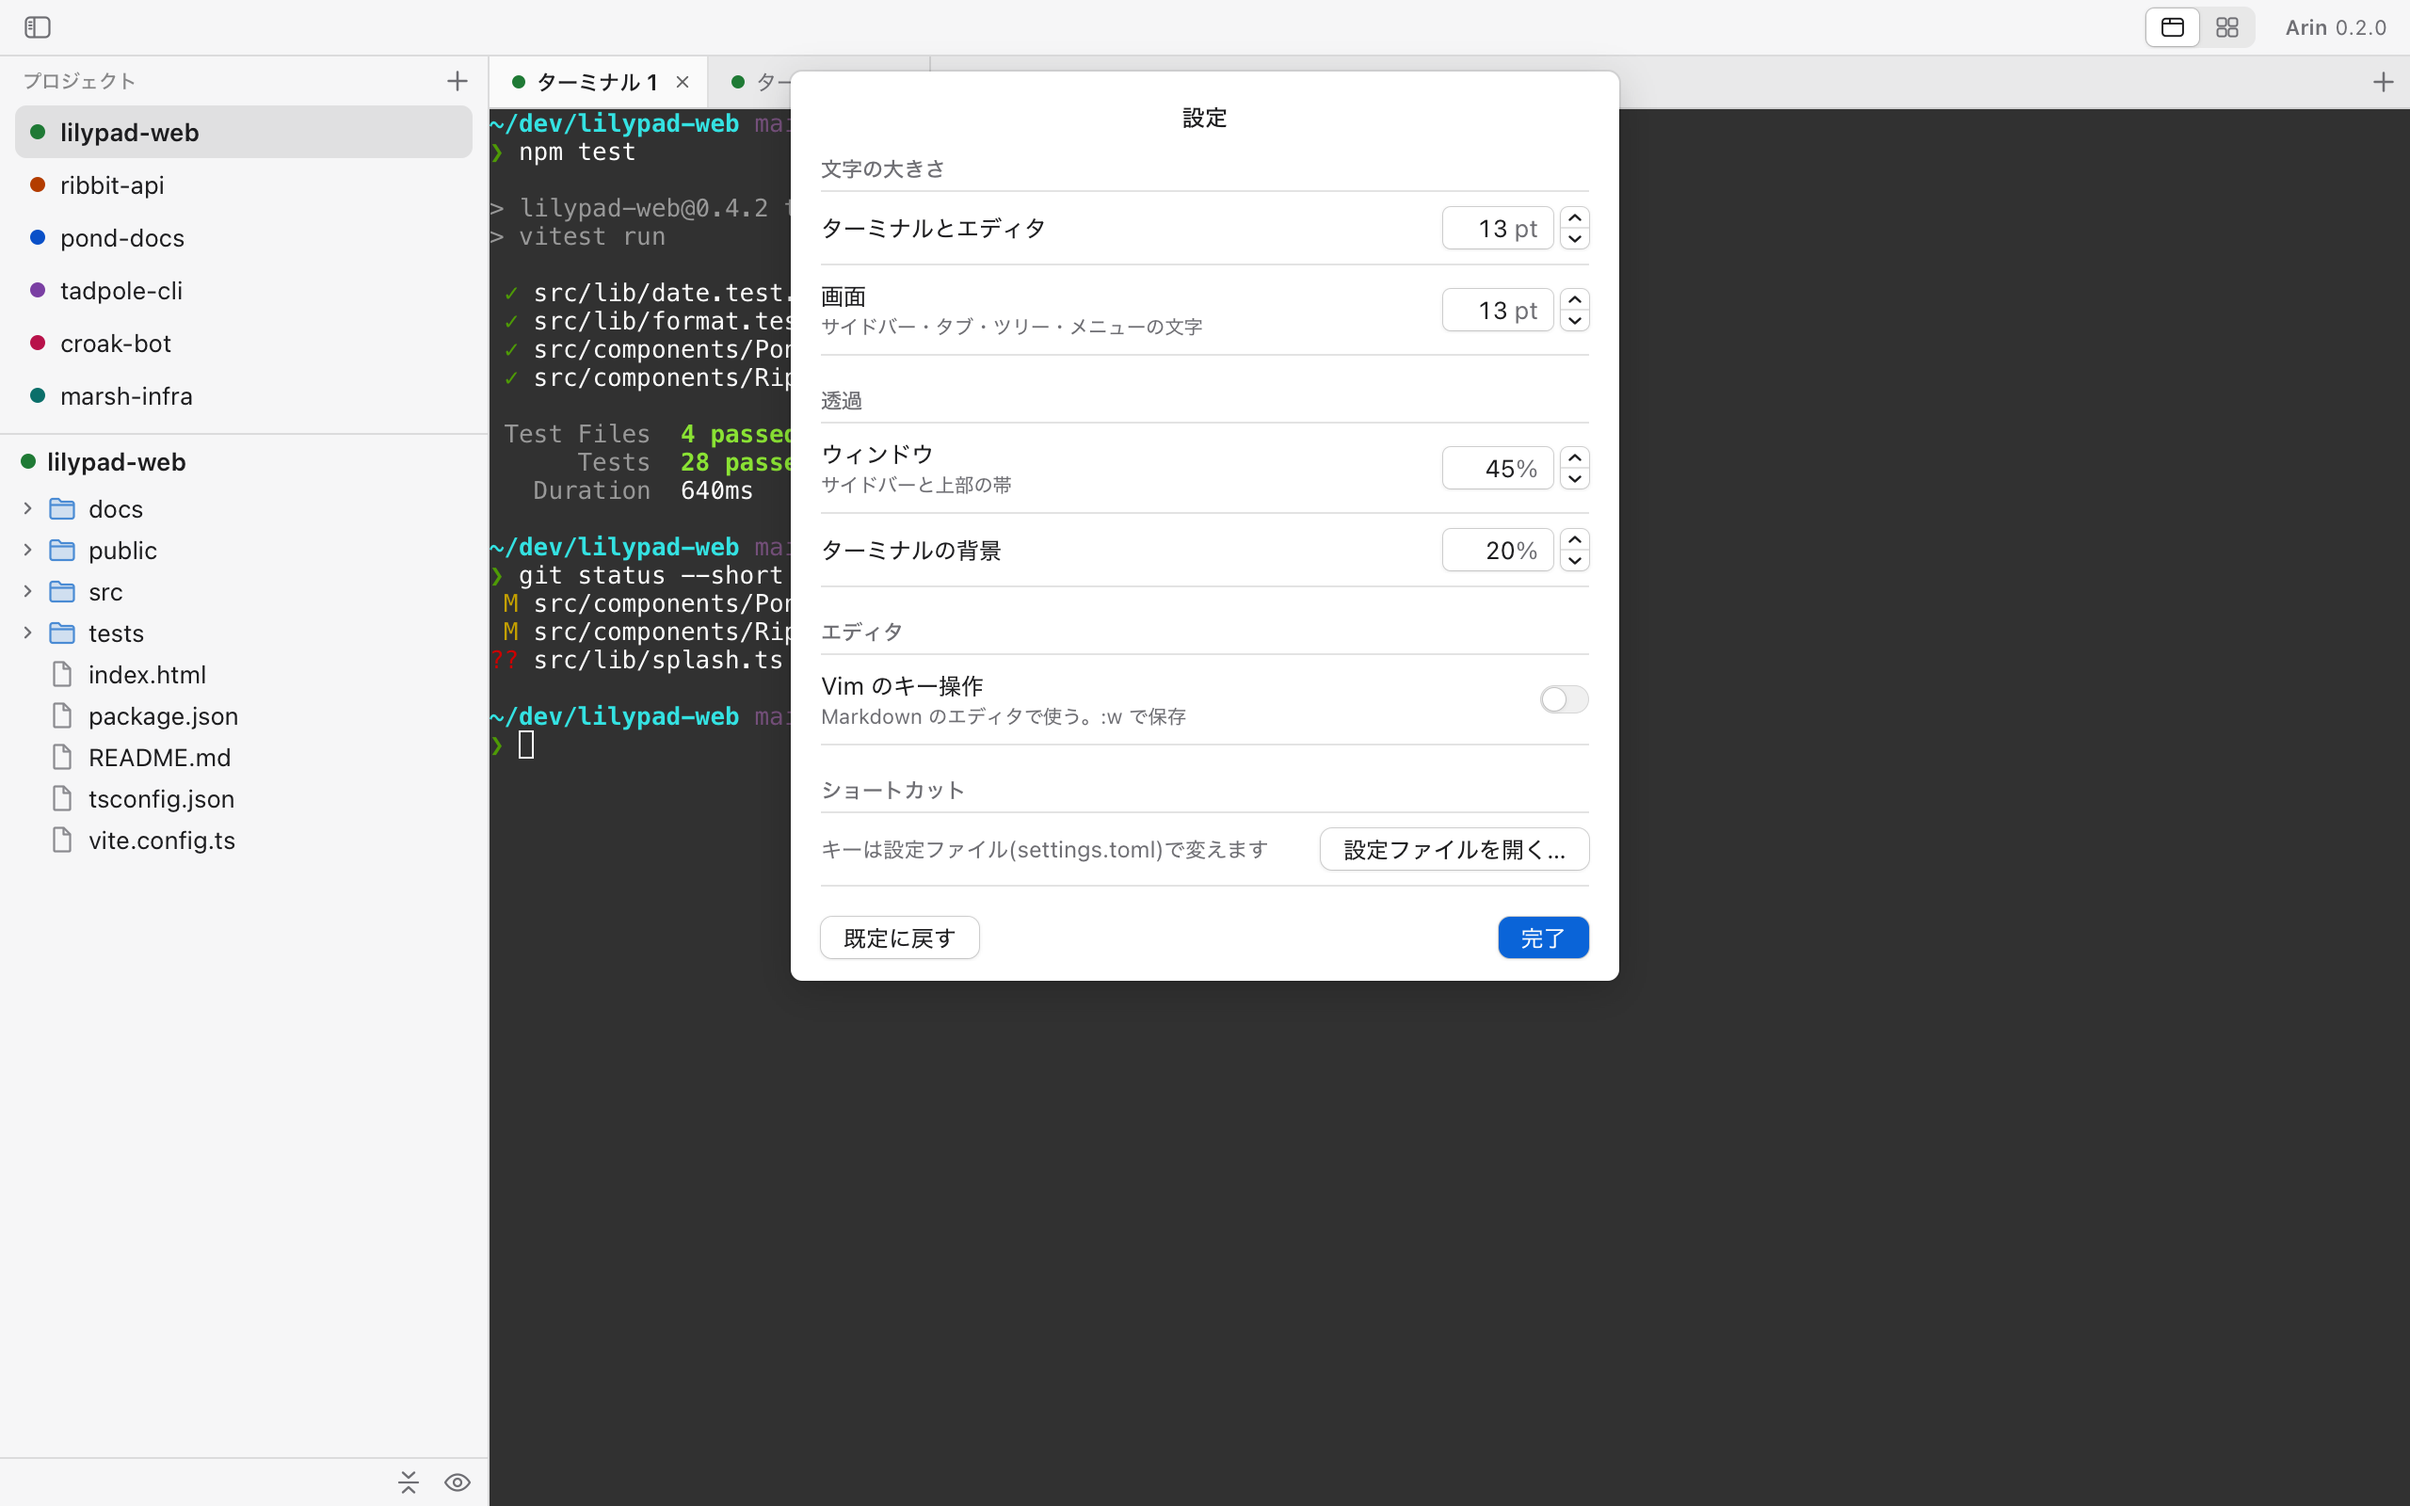
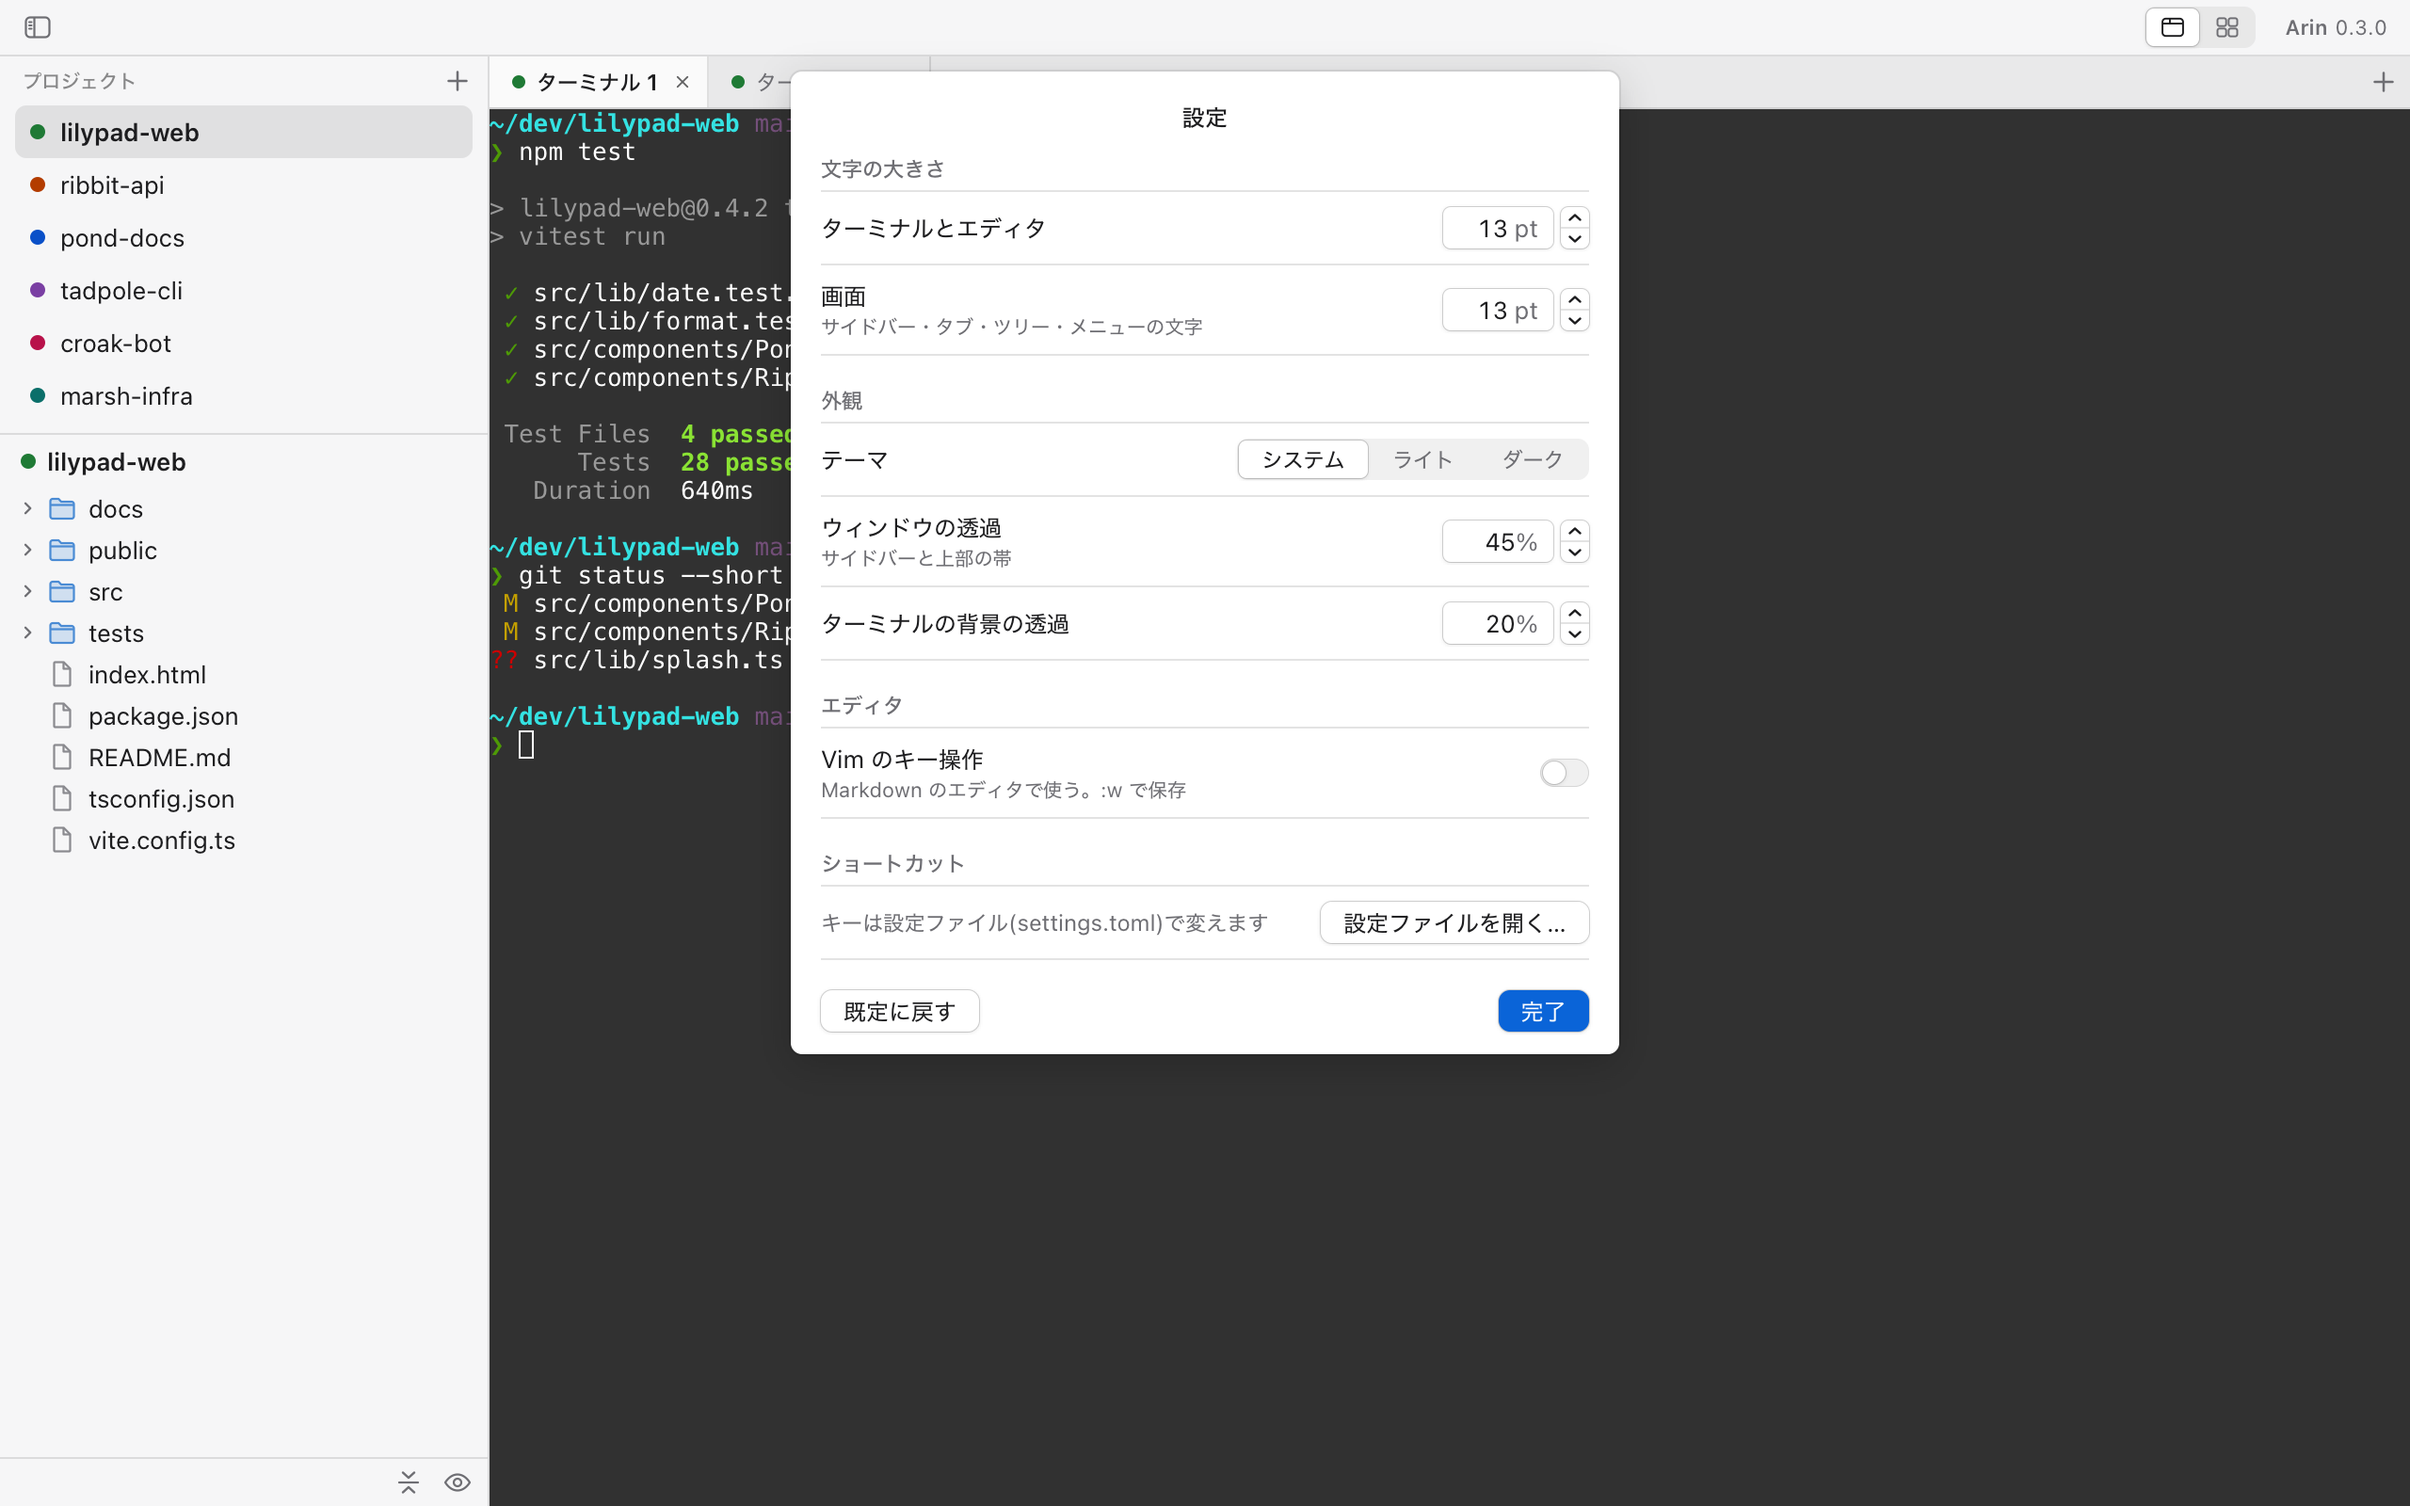
chore: 版を 0.3.0 に上げる
スクリーンショット(設定画面の「外観」とテーマの切替、版の表示)も撮り直した。

Claude-Session: https://claude.ai/code/session_01Btcq11DHBurN3TN65rUKAz

diff --git a/e2e/screenshots/media.visual.ts b/e2e/screenshots/media.visual.ts
@@ -63,9 +63,9 @@ const MARSH: SampleProject = { id: "p-marsh", name: "marsh-infra", color: "teal"
 
 const ALL = [LILYPAD, RIBBIT, POND, TADPOLE, CROAK, MARSH] as const;
 
-/** 写しの共通の手直し(版の表示を 0.2.0 に、ターミナルの文字を 13 に)。 */
+/** 写しの共通の手直し(版の表示を 0.3.0 に、ターミナルの文字を 13 に)。 */
 function finish(snapshot: AppSnapshot): AppSnapshot {
-  return withFontSizes({ ...snapshot, appVersion: "0.2.0" }, { terminal: 13 });
+  return withFontSizes({ ...snapshot, appVersion: "0.3.0" }, { terminal: 13 });
 }
 
 /** ツリーの見本(フォルダごと)。並びは Rust と同じく、フォルダが先で名前の順。 */

diff --git a/README.md b/README.md
@@ -51,7 +51,7 @@ curl -fsSL https://froggugugugu.github.io/arin-term/install.sh | bash
 
 | 環境変数 | 意味 |
 | -------- | ---- |
-| `ARIN_INSTALL_VERSION=0.2.0` | 最新版の代わりにこの版を入れる |
+| `ARIN_INSTALL_VERSION=0.3.0` | 最新版の代わりにこの版を入れる |
 | `ARIN_INSTALL_APP_DIR=DIR` | `DIR` に入れる |
 | `ARIN_INSTALL_ZIP=FILE` | ダウンロード済みの `Arin-<版>-arm64.zip` から入れる |
 | `ARIN_INSTALL_NO_OPEN=1` | 入れたあと起動しない |

diff --git a/docs/release-notarization.md b/docs/release-notarization.md
@@ -106,7 +106,7 @@ npm run dist:mac
 【ターミナル】
 
 ```bash
-dmg=release/Arin-0.2.0-arm64.dmg
+dmg=release/Arin-0.3.0-arm64.dmg
 spctl -a -vvv -t install "$dmg"          # → accepted / source=Notarized Developer ID
 xcrun stapler validate "$dmg"            # → The validate action worked!
 
